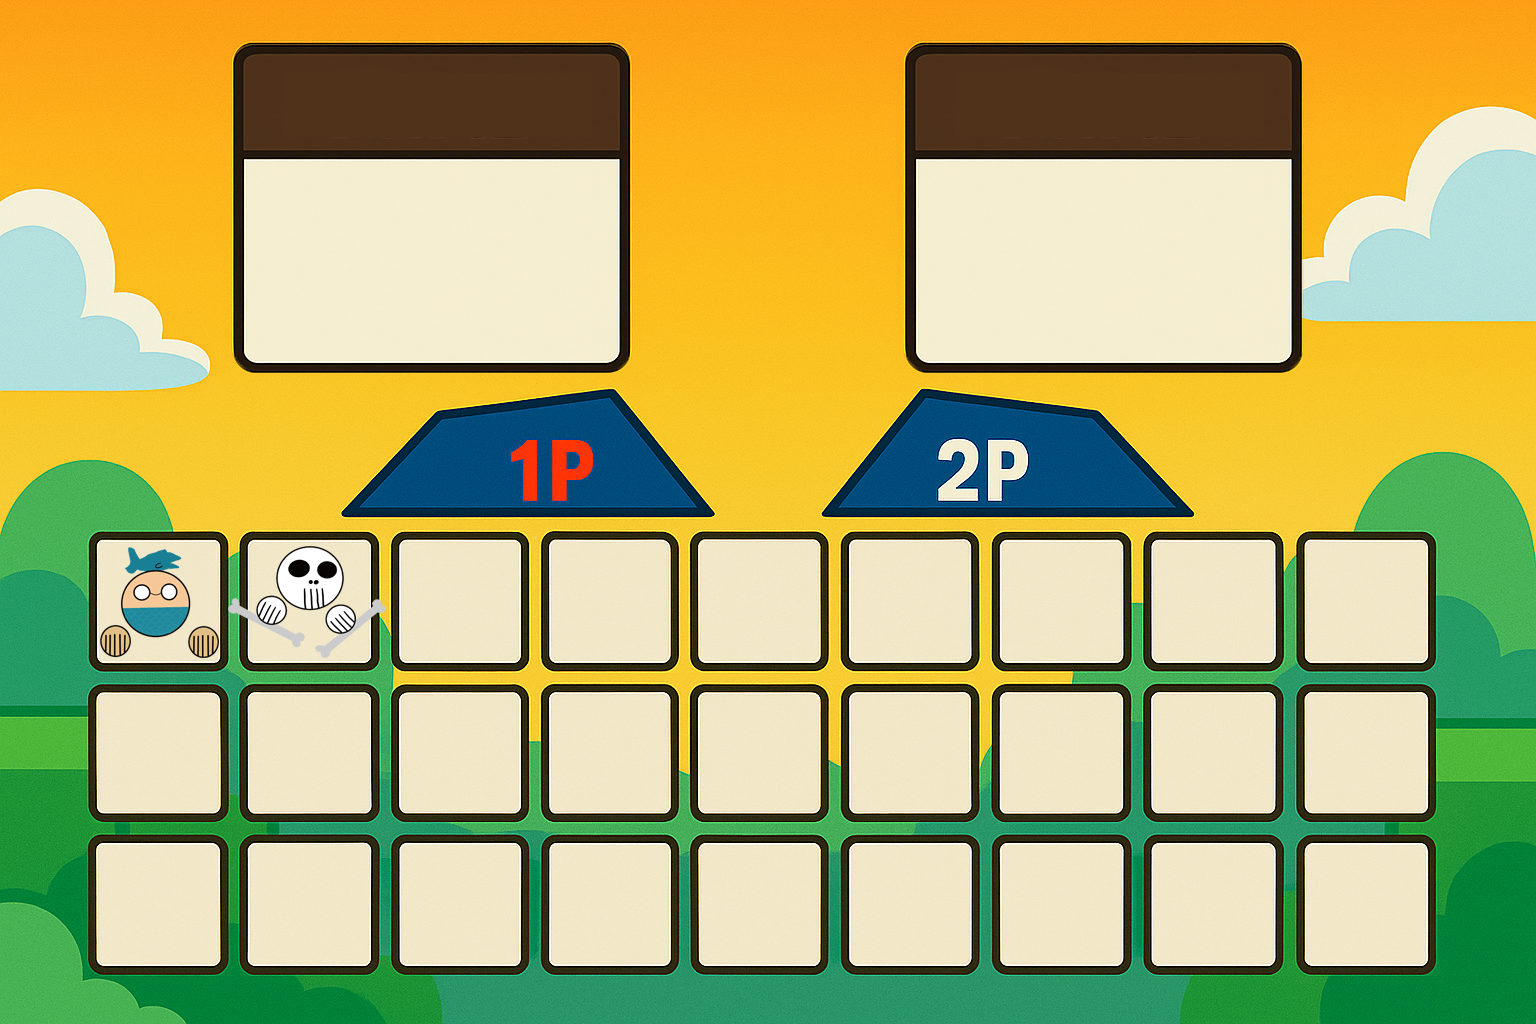
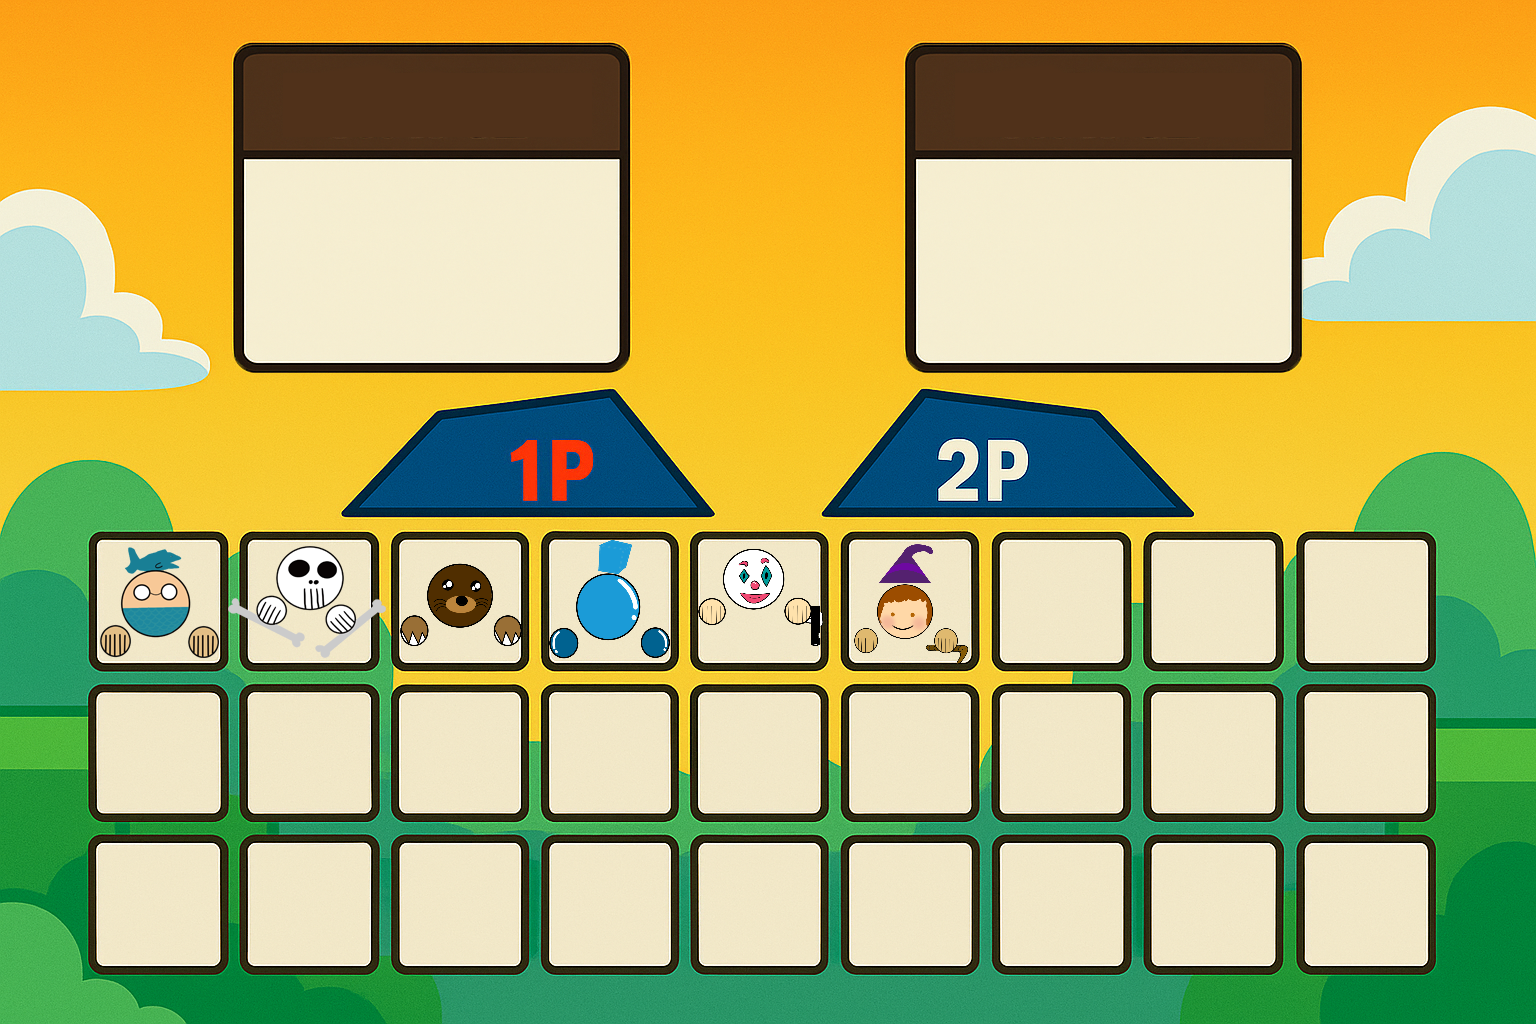
캐릭터 이미지 추가 연동
두더지, 얼음, 조커, 마녀 이미지 연동했고,
복서랑 보노보노는 전체 이미지가 없어 디스코드에 있는 이미지 파일만 넣어놓고 전체이미지 만들어지는데로 추가 하겠습니다.

Changed region(s): [[0.25, 0.5312, 0.625, 0.6562]]

diff --git a/src/scenes/characters.py b/src/scenes/characters.py
@@ -6,6 +6,10 @@ character_config = {
   "character_list": [
     {"name": "이생선", "codename": "leesaengseon", "rect": pygame.Rect(70, 380, 85, 85)},
     {"name": "해골", "codename": "haegol", "rect": pygame.Rect(175, 380, 85, 85)},
+    {"name": "두더지","codename":"dudeoji","rect": pygame.Rect(280, 380, 85, 85)},
+    {"name": "얼음","codename":"ice","rect": pygame.Rect(385, 380, 85, 85)},
+    {"name": "조커","codename":"joker","rect": pygame.Rect(490, 380, 85, 85)},
+    {"name": "마녀","codename":"witch","rect": pygame.Rect(595, 380, 85, 85)},
   ],
   "selected_1p": None,
   "selected_2p": None,
@@ -49,8 +53,7 @@ def haegol_skill1(p1, p2, skill_state, bones, owner):
     "img": bone_img,
     "owner": owner
   }
-  bones.append(bone)
-  
+  bones.append(bone) 
 
 def haegol_skill2(p1, p2, skill_state):
   current_time = pygame.time.get_ticks()
@@ -118,6 +121,34 @@ def haegol_ultimate(p1, skill_state):
   skill_state["invincible"] = True
   p1["ultimate_gauge"] = 0
 
+def dudeoji_skill1(p1, p2, skill_state):
+  pass
+def dudeoji_skill2(p1, p2, skill_state):
+  pass
+def dudeoji_ultimate(p1, p2, skill_state):
+  pass
+
+def ice_skill1(p1, p2, skill_state):
+  pass
+def ice_skill2(p1, p2, skill_state):
+  pass
+def ice_ultimate(p1, p2, skill_state):
+  pass
+
+def witch_skill1(p1, p2, skill_state):
+  pass
+def witch_skill2(p1, p2, skill_state):
+  pass
+def witch_ultimate(p1, p2, skill_state):
+  pass
+
+def joker_skill1(p1, p2, skill_state):
+  pass
+def joker_skill2(p1, p2, skill_state):
+  pass
+def joker_ultimate(p1, p2, skill_state):
+  pass
+
   def draw_ultimate(screen):
       elapsed = pygame.time.get_ticks() - skill_state["start_time"]
 
@@ -135,6 +166,10 @@ def haegol_ultimate(p1, skill_state):
 character_skill = {
   "leesaengseon":  [leesaengseon_skill1, leesaengseon_skill2, leesaengseon_ultimate],
   "haegol":  [haegol_skill1, haegol_skill2, haegol_ultimate],
+  "dudeoji":  [dudeoji_skill1, dudeoji_skill2, dudeoji_ultimate],
+  "ice":  [ice_skill1, ice_skill2, ice_ultimate],
+  "witch":  [witch_skill1, witch_skill2, witch_ultimate],
+  "joker":  [joker_skill1, joker_skill2, joker_ultimate],
 }
 # 캐릭터 스킬 상태 리스트
 character_skill_state = {
@@ -148,7 +183,26 @@ character_skill_state = {
     "skill2": {"cooldown":4000 , "last_used":0, "active":False},
     "ultimate": {"cooldown":10000 , "last_used":0, "active":False},
   },
-
+  "dudeoji" : {
+    "skill1": {"cooldown":2000 , "last_used":0, "active":False},
+    "skill2": {"cooldown":1000 , "last_used":0, "active":False},
+    "ultimate": {"cooldown":10000 , "last_used":0, "active":False},
+  },
+  "ice" : {
+    "skill1": {"cooldown":2000 , "last_used":0, "active":False},
+    "skill2": {"cooldown":1000 , "last_used":0, "active":False},
+    "ultimate": {"cooldown":10000 , "last_used":0, "active":False},
+  },
+    "witch" : {
+    "skill1": {"cooldown":2000 , "last_used":0, "active":False},
+    "skill2": {"cooldown":1000 , "last_used":0, "active":False},
+    "ultimate": {"cooldown":10000 , "last_used":0, "active":False},
+  },
+    "joker" : {
+    "skill1": {"cooldown":2000 , "last_used":0, "active":False},
+    "skill2": {"cooldown":1000 , "last_used":0, "active":False},
+    "ultimate": {"cooldown":10000 , "last_used":0, "active":False},
+  },
 }
 
 text_1p = None
